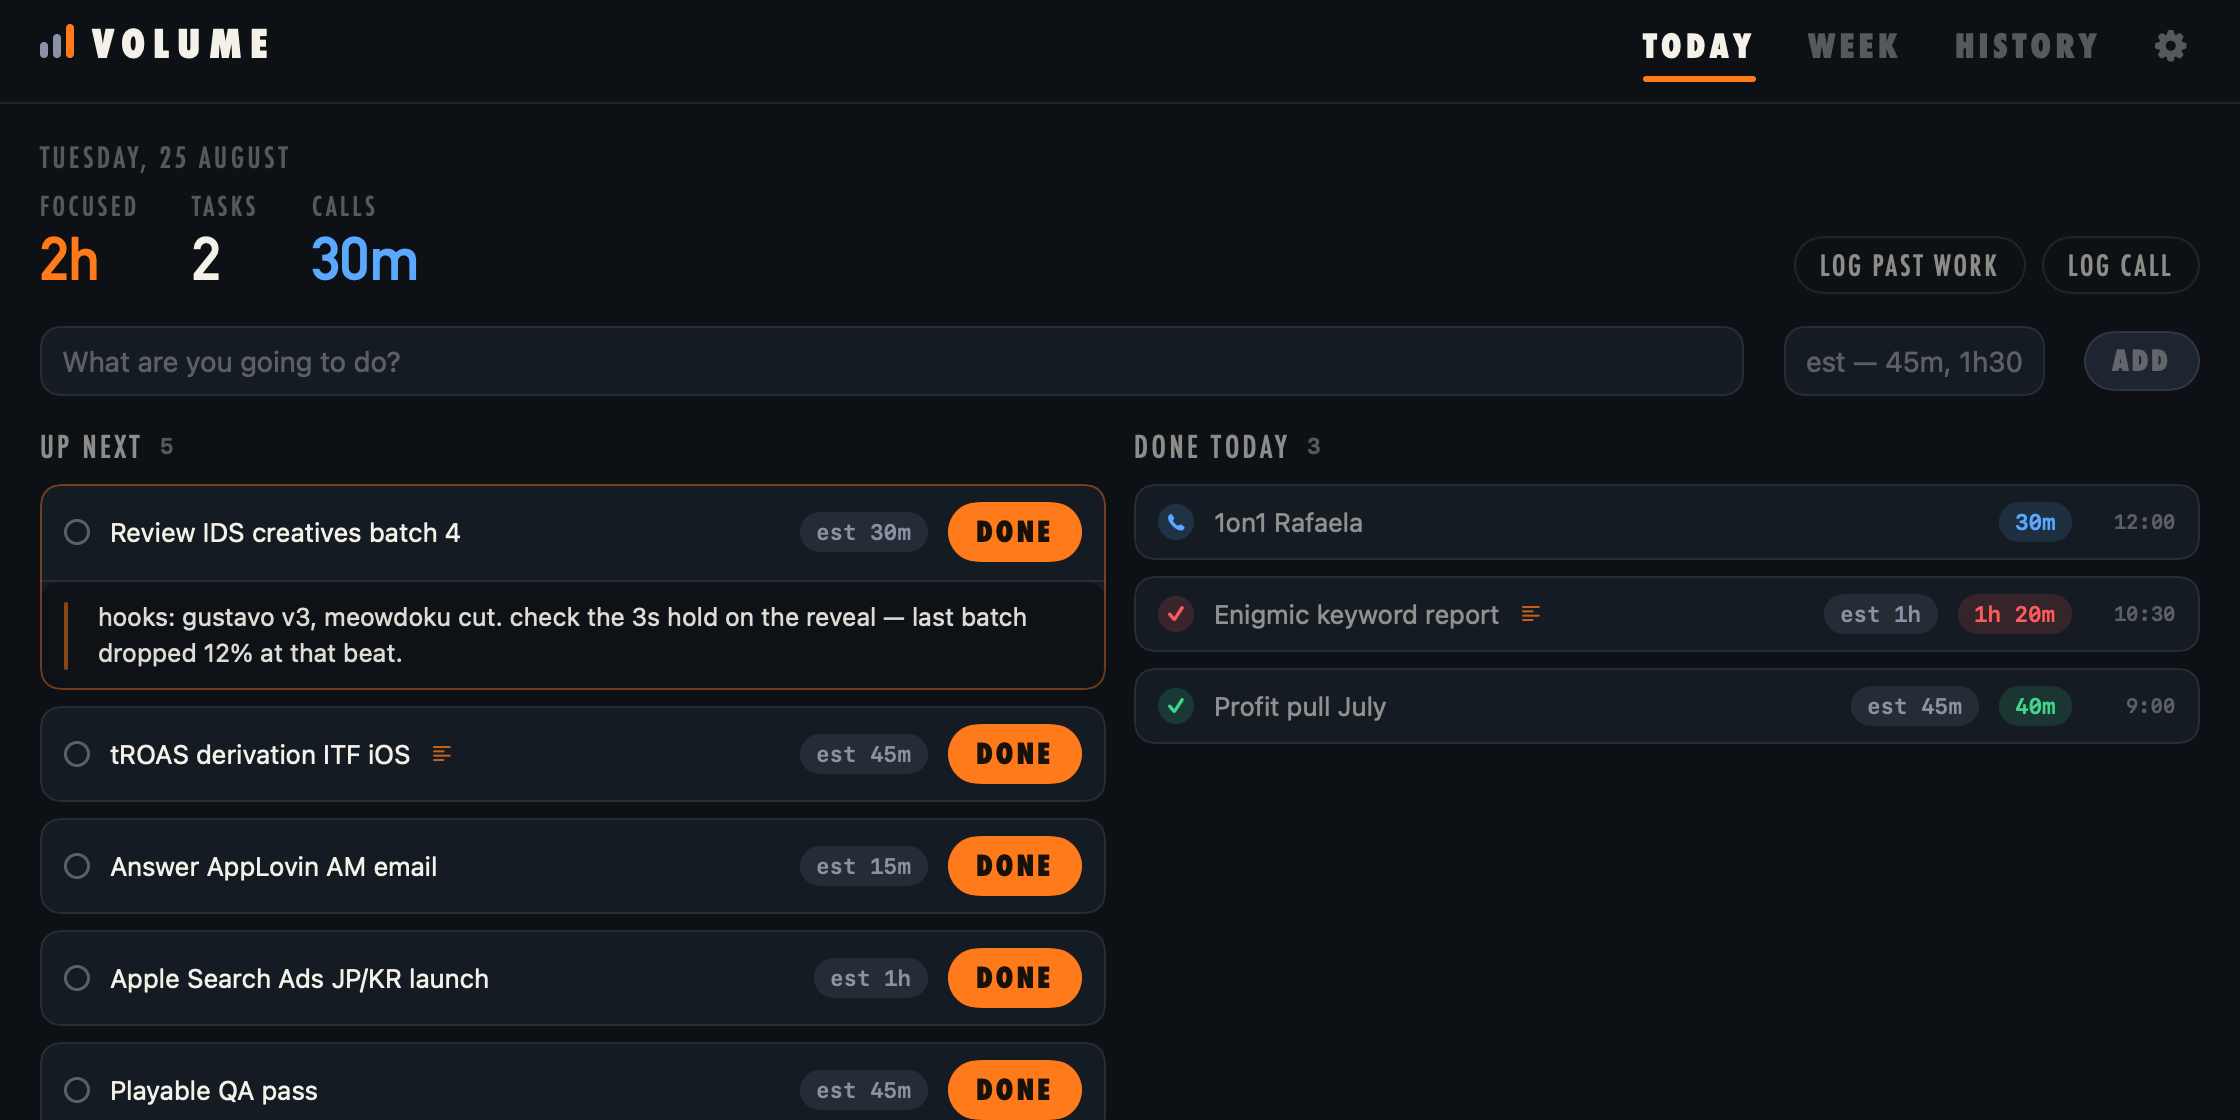
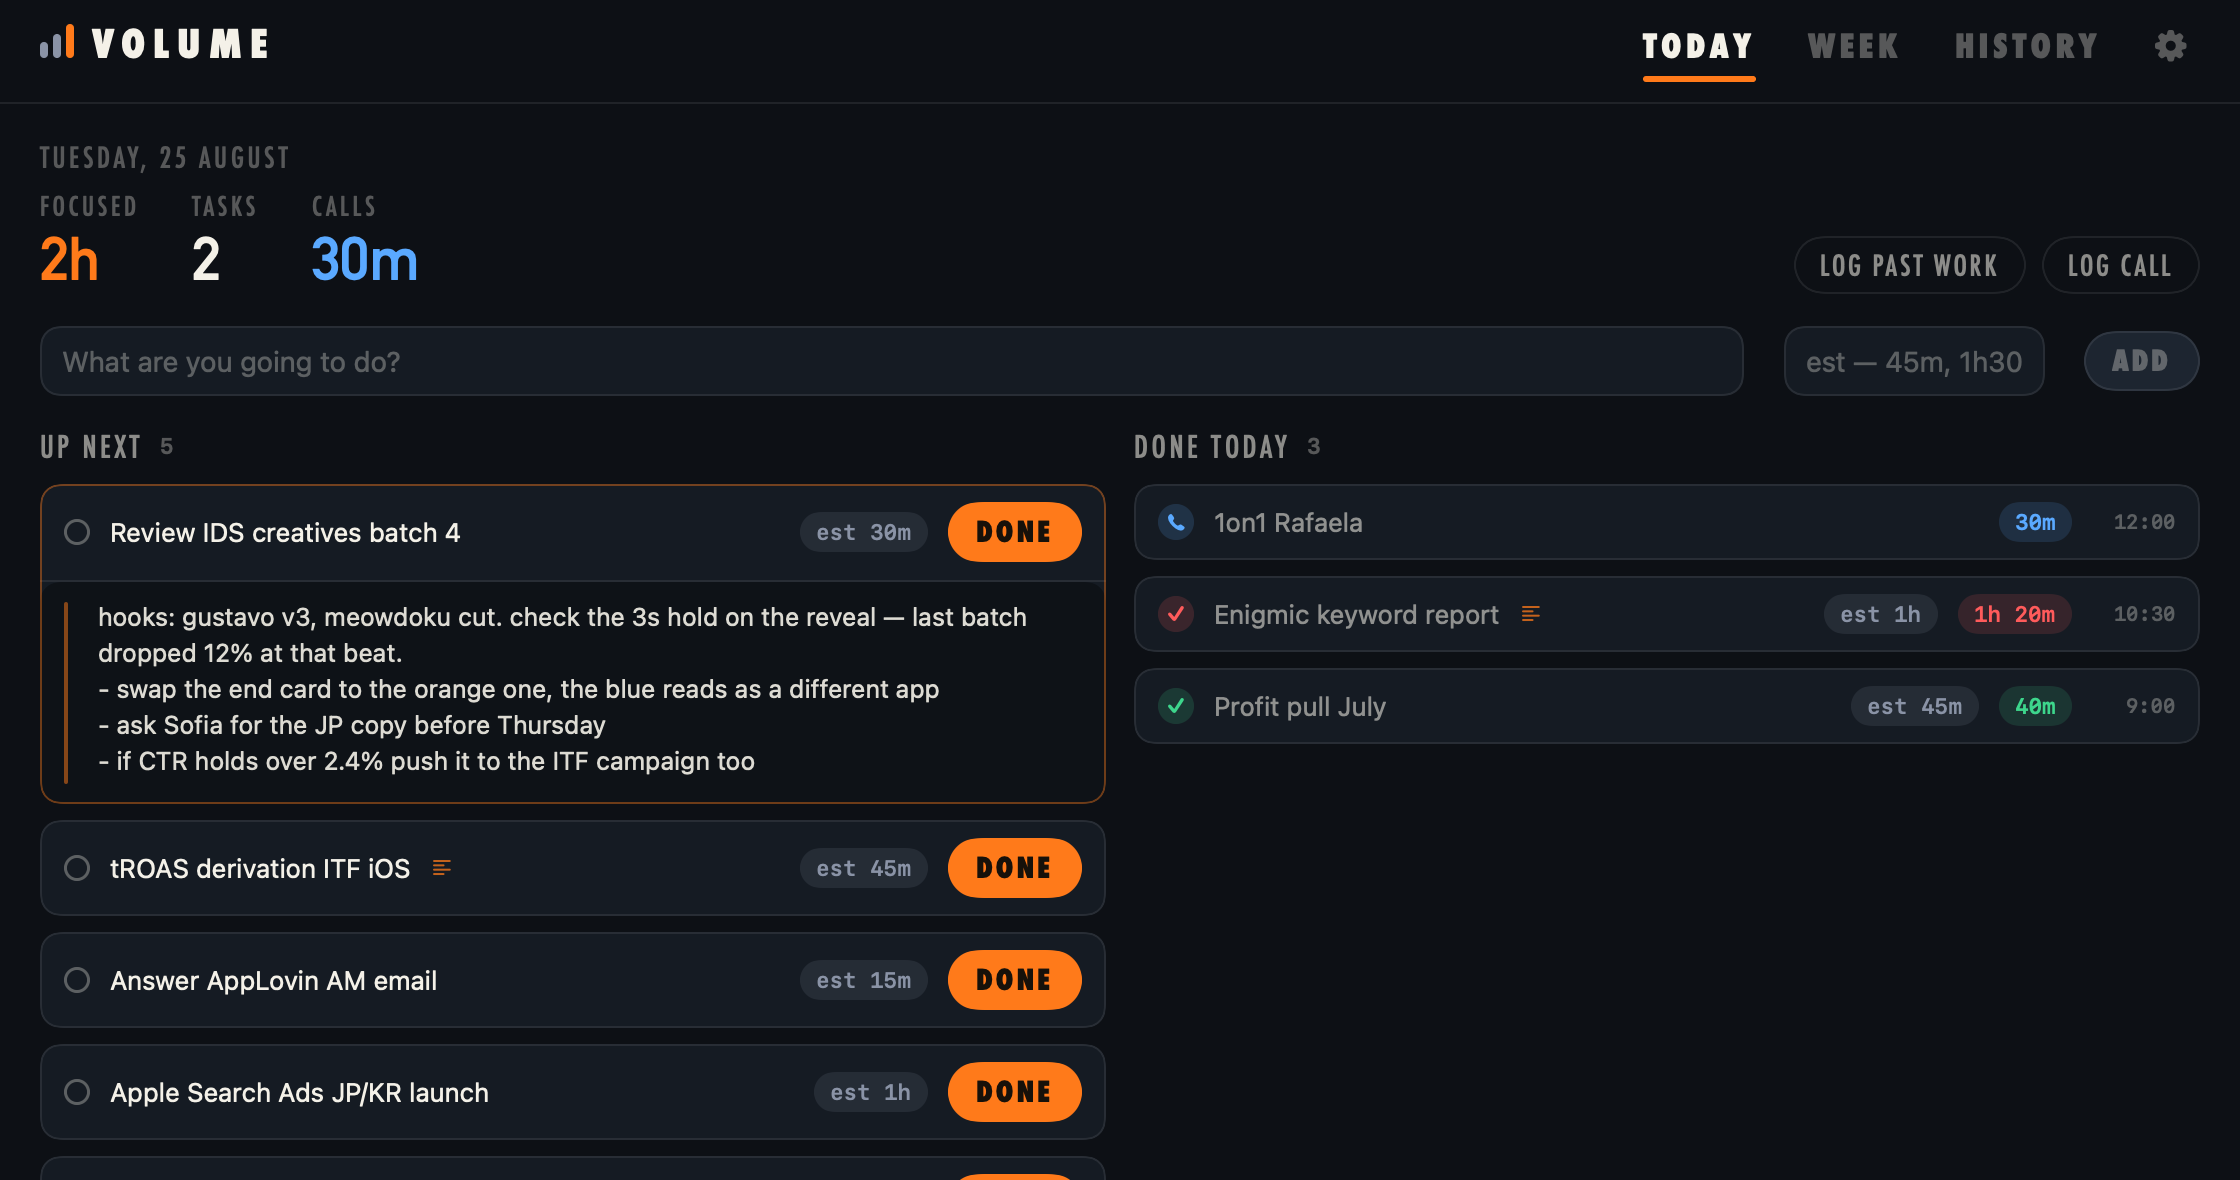
Fix the notes well never growing past two lines
The measuring twin sat inside the very frame whose height it was supposed to
report, so it was squeezed to the current height and reported it back — the
well could only ever stay where it started. fixedSize(vertical:) lets the twin
lay out at its ideal height regardless of what it is offered, which breaks the
loop. Also measures a trailing newline (Text ignores one) so the well grows on
the Return that opens the line, not on the character after it.

diff --git a/Sources/Volume/Components.swift b/Sources/Volume/Components.swift
@@ -142,6 +142,16 @@ struct NotesDrawer: View {
     @State private var measured: CGFloat = 34
     @FocusState private var focused: Bool
 
+    /// Two lines of room to start, growing to about a dozen before it scrolls.
+    private var wellHeight: CGFloat { min(max(measured + 4, 40), 260) }
+
+    /// Text ignores a trailing newline when it measures, so the well would
+    /// stay put on the Return that opens a new line. The space forces it.
+    private var twinText: String {
+        if text.isEmpty { return " " }
+        return text.hasSuffix("\n") ? text + " " : text
+    }
+
     private let noteFont = Font.system(size: 12.5)
     private let noteLeading: CGFloat = 3
     /// NSTextView lays its text out inside a small padding of its own; the
@@ -165,15 +175,20 @@ struct NotesDrawer: View {
                     // A hidden twin of the text does the measuring, so the
                     // drawer grows line by line instead of parking at a fixed
                     // height with dead space under two lines of note.
-                    Text(text.isEmpty ? " " : text)
+                    // fixedSize is what makes it work: without it the twin is
+                    // squeezed into the height it is supposed to be reporting,
+                    // and the well can never grow past its starting size.
+                    Text(twinText)
                         .font(noteFont)
                         .lineSpacing(noteLeading)
                         .padding(.leading, editorInset)
                         .frame(maxWidth: .infinity, alignment: .topLeading)
-                        .opacity(0)
+                        .fixedSize(horizontal: false, vertical: true)
                         .background(GeometryReader { g in
                             Color.clear.preference(key: NoteHeightKey.self, value: g.size.height)
                         })
+                        .opacity(0)
+                        .allowsHitTesting(false)
                     if text.isEmpty {
                         Text("Notes…")
                             .font(noteFont)
@@ -197,8 +212,8 @@ struct NotesDrawer: View {
                             .focused($focused)
                     }
                 }
-                .frame(height: min(max(measured, 34), 260), alignment: .topLeading)
-                .animation(.spring(response: 0.26, dampingFraction: 0.9), value: measured)
+                .frame(height: wellHeight, alignment: .topLeading)
+                .animation(.spring(response: 0.26, dampingFraction: 0.9), value: wellHeight)
                 .onPreferenceChange(NoteHeightKey.self) { h in
                     if abs(h - measured) > 0.5 { measured = h }
                 }
